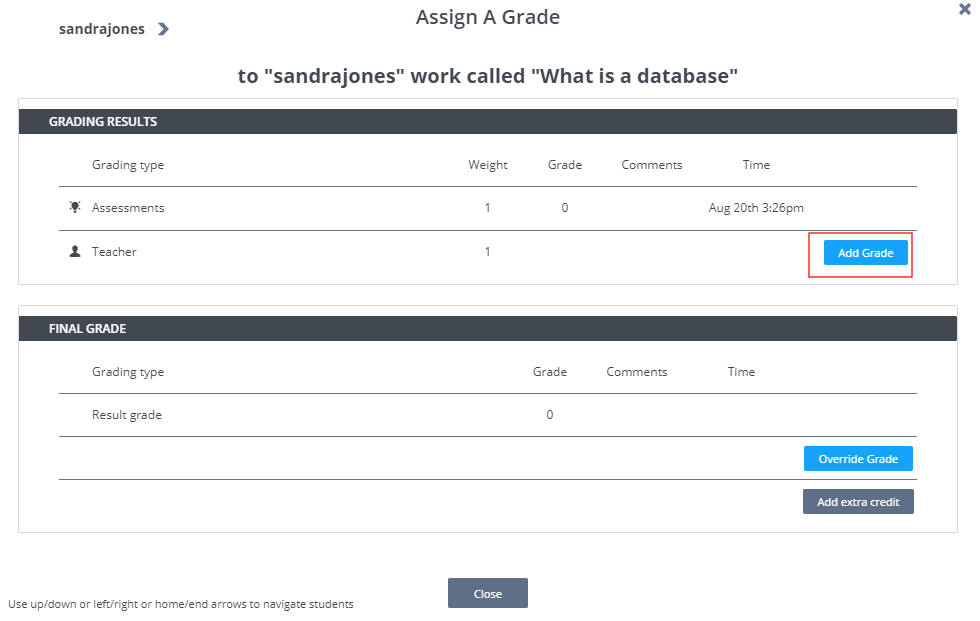
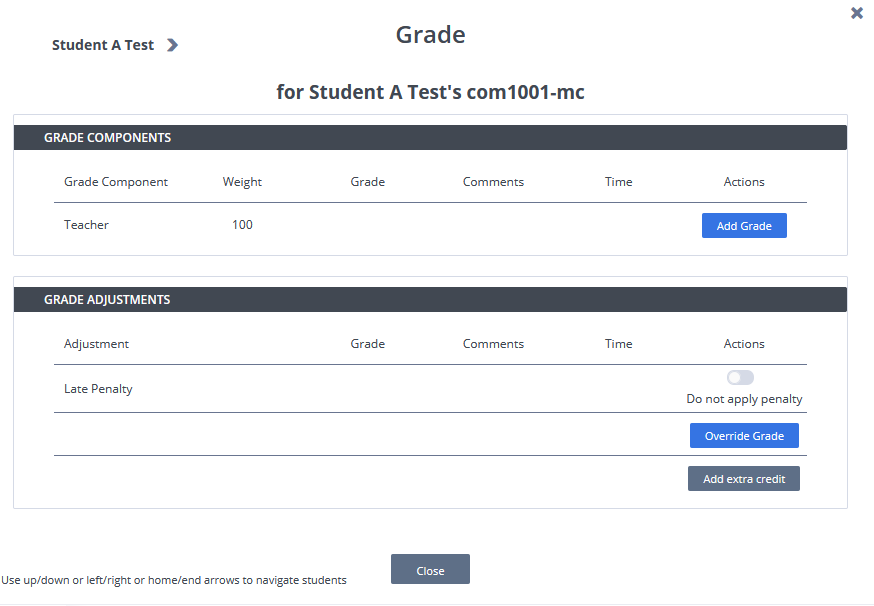
22 feb (#214)

diff --git a/student-source/students/accessing-codio/faq.rst b/student-source/students/accessing-codio/faq.rst
@@ -125,7 +125,7 @@ Reset my assignment to its default configuration
 
 If the assignment you are referring to uses **Guides**, check out :ref:`Restore Current Files <restore-files>` as that may do what you need but if not and your instructor hasn't allowed you to :ref:`reset <student-reset>` the assignment yourself, discuss with your class instructor as they can :ref:`reset <modify-assignments>` the assignment for you and you can then start the unit again.  
 
-If you also let them know what you did , they may want to review the unit(s) you are working with to help mitigate this problem for you and other students in the future
+If you also let them know what you did, they may want to review the unit(s) you are working with to help mitigate this problem for you and other students in the future.
 
 Accessibility Options
 ---------------------

diff --git a/source/instructors/setupcourses/assignment-settings/penalties.rst b/source/instructors/setupcourses/assignment-settings/penalties.rst
@@ -52,6 +52,12 @@ You can view any penalties that have been applied in the Instructor Dashboard. I
 
 The **Final Grade** shows the final graded score less any penalty deduction. If you have overwritten the field (see Adjust deadline), the penalty deduction is not applied.
 
+Removing Penalties
+------------------
+
+If required you can remove any applied penalties to the students final grade. For more information see :ref:`Grading <grading>`
+
+
 Adjust deadline for individual students
 ---------------------------------------
 You can adjust the deadline for individual students should the circumstances warrant additional time to complete the assignment.

diff --git a/source/instructors/teaching/grading/grading.rst b/source/instructors/teaching/grading/grading.rst
@@ -86,6 +86,15 @@ The **Override Grade** feature can also be used to provide comments at the assig
   .. image:: /img/class_administration/grading/assignment-comments.png
      :alt: Assignment Comments
 
+Removing Penalties
+------------------
+
+If required you can remove penalties currently applied to the students grade.
+
+   .. image:: /img/latepenalty.png
+      :alt: Remove Penalties
+
+
 Anonymous grading
 -----------------
 If required, anonymous grading can be set for the course so students cannot see the names of the teachers who graded their work. The teacher names are hidden in the shared feedback, project, and dashboard. 
